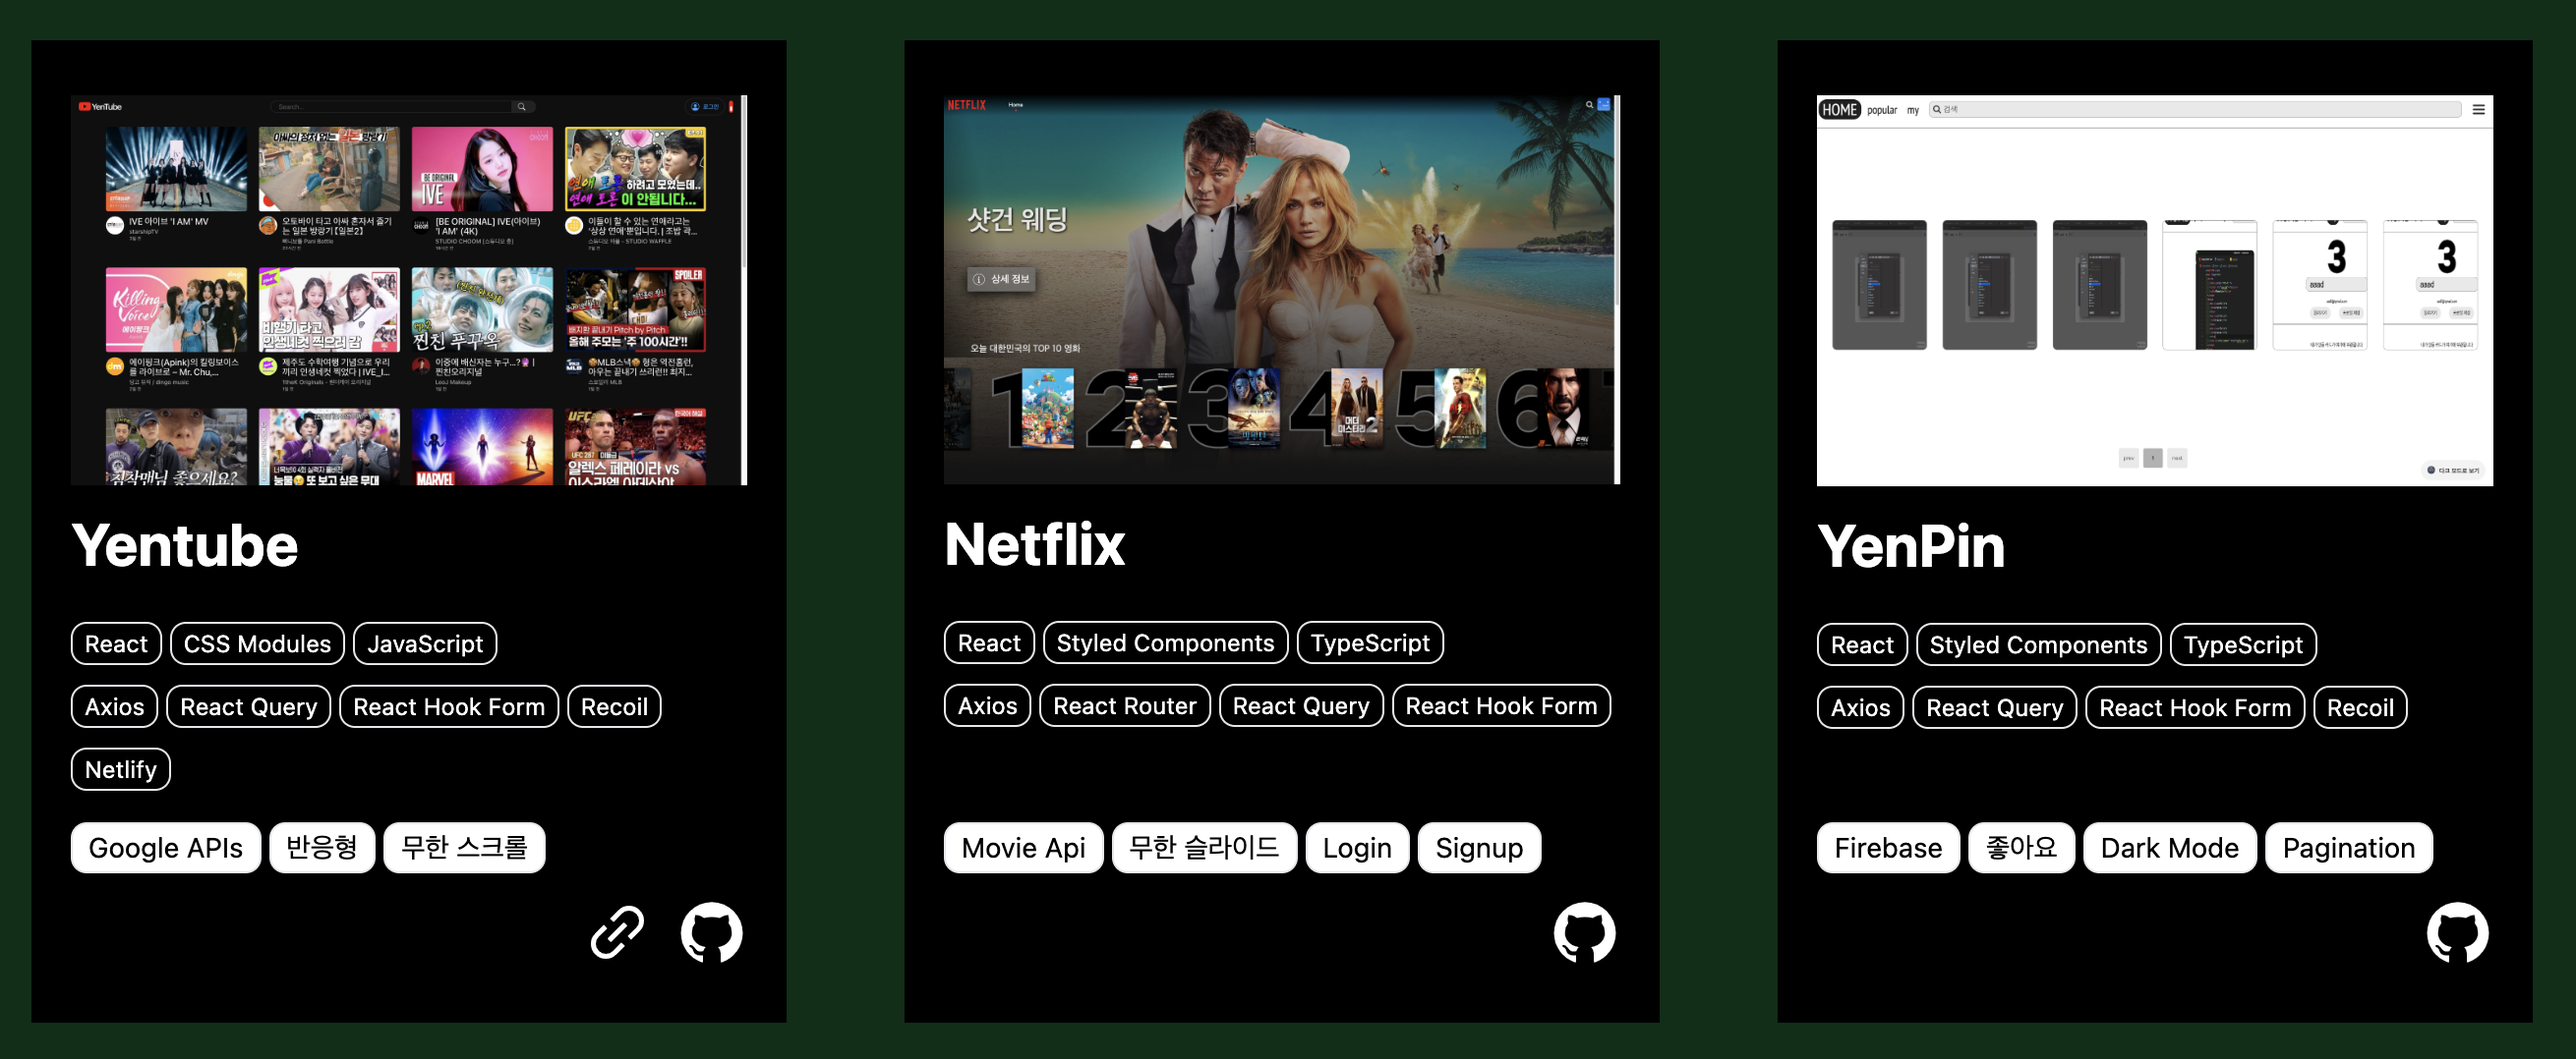
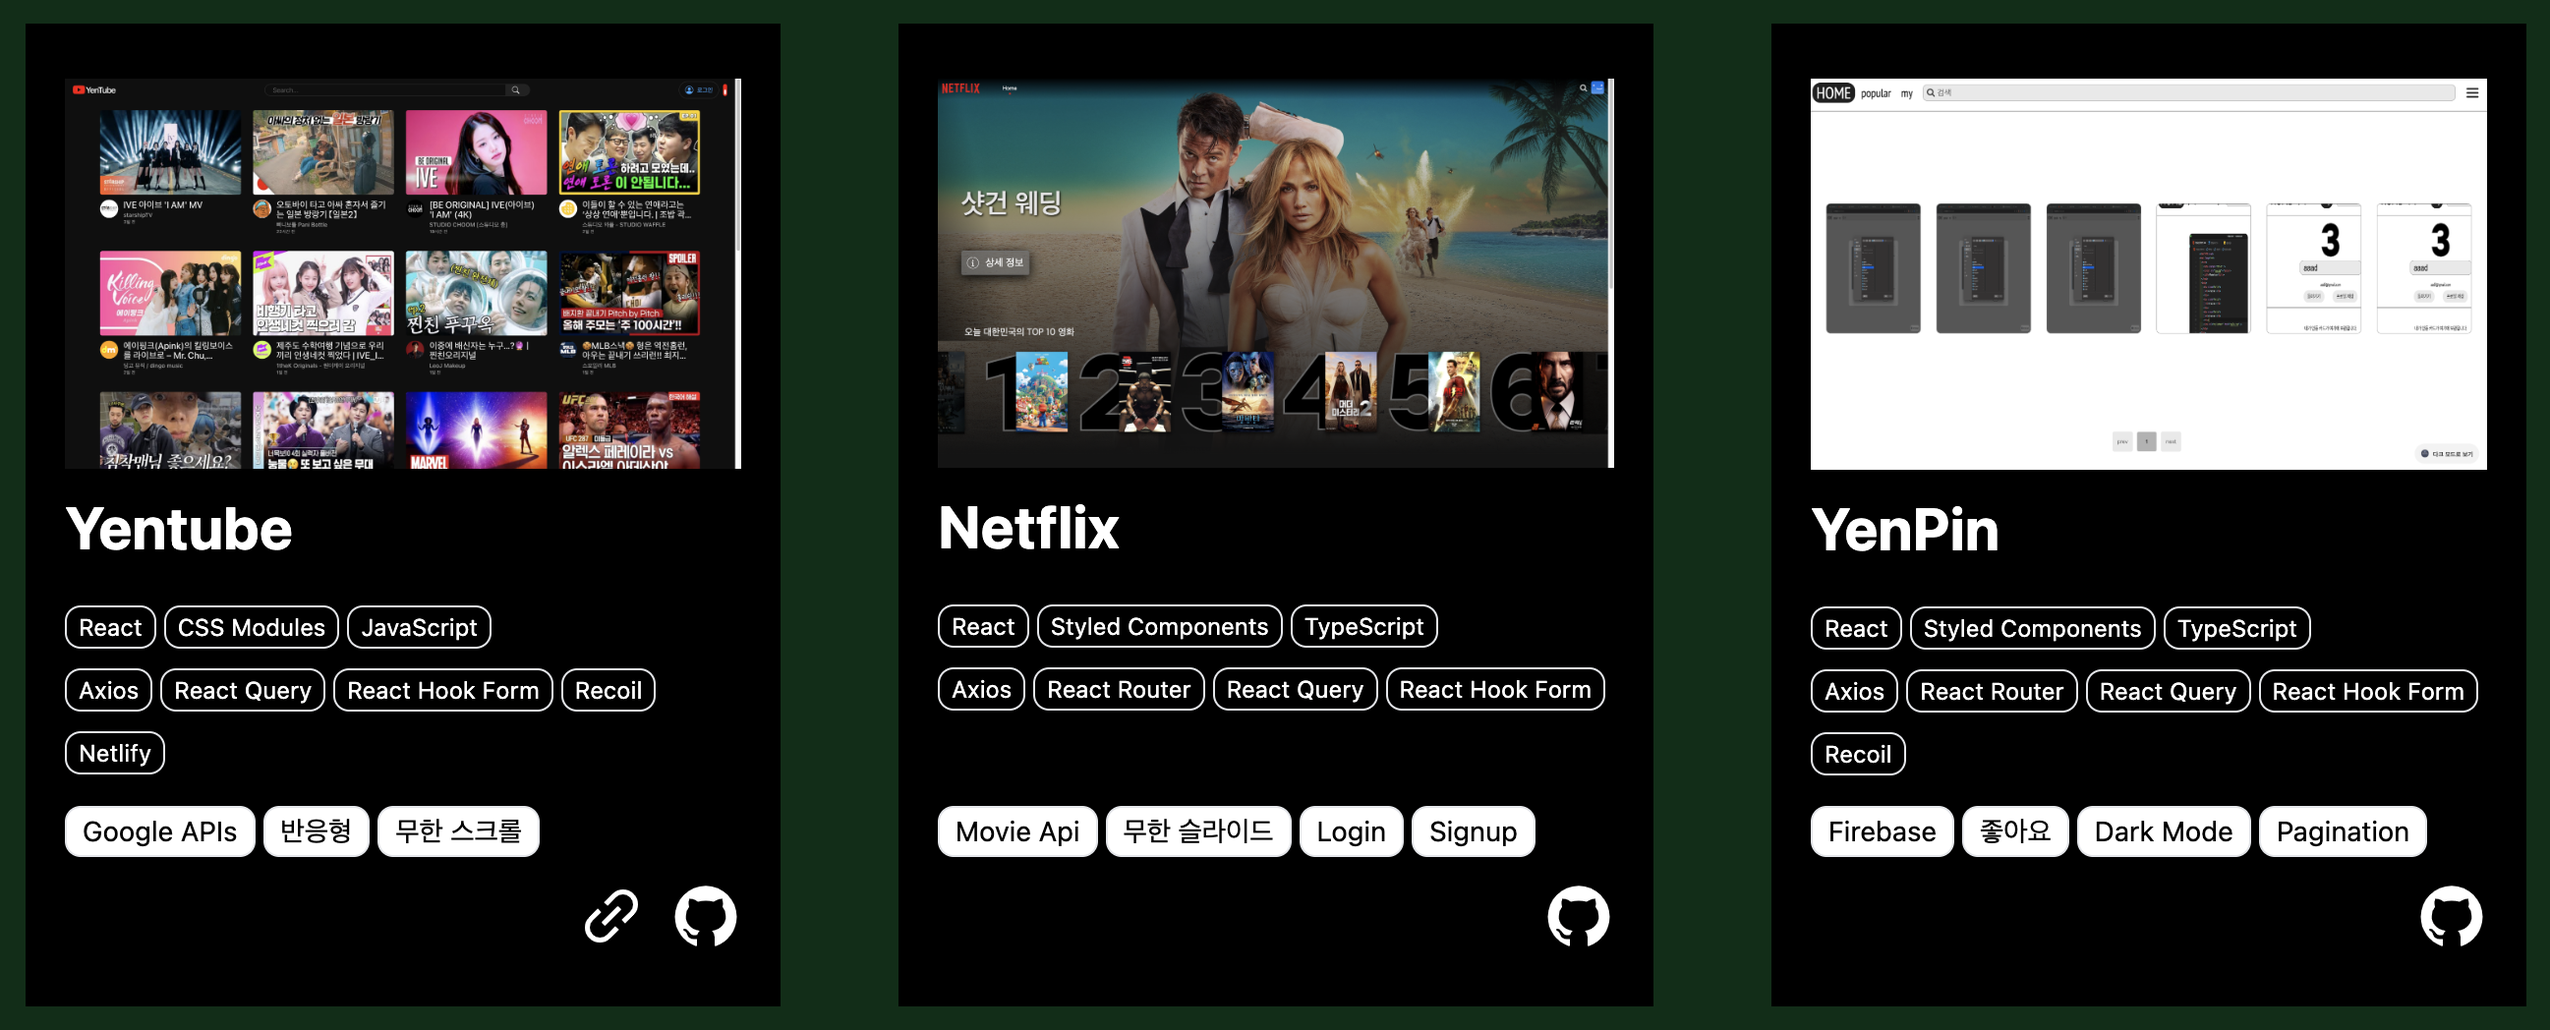
link 주소 변경

diff --git a/src/components/LinkContainer.tsx b/src/components/LinkContainer.tsx
@@ -15,20 +15,16 @@ const LinkContainer = ({ CD, projectName }: ILinkContainer) => {
   const onClick = (urlName: string) => {
     const yentube = projectName === "Yentube";
     const netflix = projectName === "Netflix";
-    const cards = projectName === "Cards";
+    const yenpin = projectName === "YenPin";
     const portfolio = projectName === "Portfolio";
 
     const url: any =
       (yentube &&
         (urlName === "git"
-          ? "https://github.com/YennieJ/clone_youtube"
+          ? "https://github.com/YennieJ/Yentube"
           : "https://yentube.store/")) ||
-      (netflix &&
-        urlName === "git" &&
-        "https://github.com/YennieJ/clone_netflix") ||
-      (cards &&
-        urlName === "git" &&
-        "https://github.com/YennieJ/homepage-typescript") ||
+      (netflix && urlName === "git" && "https://github.com/YennieJ/Yenflix") ||
+      (yenpin && urlName === "git" && "https://github.com/YennieJ/YenPin") ||
       (portfolio &&
         urlName === "git" &&
         "https://github.com/YennieJ/portfolio");

diff --git a/src/components/Used.tsx b/src/components/Used.tsx
@@ -26,7 +26,13 @@ const Used = ({ projectName }: IUsed) => {
   const extend = {
     Yentube: ["Axios", "React Query", "React Hook Form", "Recoil", "Netlify"],
     Netflix: ["Axios", "React Router", "React Query", "React Hook Form"],
-    YenPin: ["Axios", "React Query", "React Hook Form", "Recoil"],
+    YenPin: [
+      "Axios",
+      "React Router",
+      "React Query",
+      "React Hook Form",
+      "Recoil",
+    ],
   };
 
   //props 이름과 프로젝트 이름이 같은 배열을 찾아 사용한 툴을 맵핑하여 보여준다.

diff --git a/src/pages/Projects/Projects.tsx b/src/pages/Projects/Projects.tsx
@@ -32,7 +32,7 @@ const Projects = () => {
           <Used projectName="YenPin" />
           <Point projectName="YenPin" />
         </div>
-        <LinkContainer projectName="Cards" />
+        <LinkContainer projectName="YenPin" />
       </ProjectContainer>
     </div>
   );

diff --git a/tmep.md b/tmep.md
@@ -1,0 +1,12 @@
+<h1 align="center"> Yennie <a href="https://yentube.store/s" target="_blank" rel="noreferrer"> 🙋🏻♀Profile </a> <h1>
+
+<p align="center"> <img src="https://raw.githubusercontent.com/devicons/devicon/master/icons/react/react-original-wordmark.svg" alt="react" width="35" height="35"/><img src="https://raw.githubusercontent.com/devicons/devicon/master/icons/css3/css3-original-wordmark.svg" alt="css3" width="35" height="35"/>   <img src="https://raw.githubusercontent.com/devicons/devicon/master/icons/javascript/javascript-original.svg" alt="javascript" width="35" height="35"/>    <img src="https://raw.githubusercontent.com/devicons/devicon/master/icons/typescript/typescript-original.svg" alt="typescript" width="35" height="35"/> </a> </p>
+
+## Projects
+
+<p align="center"> <a href="https://github.com/YennieJ/clone_youtube" > <img width="330" alt="Yentube" src="https://user-images.githubusercontent.com/108519185/232845009-174ee1d0-44f6-4530-9f66-b2aae7a3e413.png">
+ </a>
+ <a href="https://github.com/YennieJ/homepage-typescript"" > <img width="330" alt="Yenflix" src="https://user-images.githubusercontent.com/108519185/232844996-6557f9cc-e51f-4115-b2bd-0336c9fc3074.png"> </a> 
+ <a href="https://reactjs.org/" > 
+<img width="330" alt="Yenpin" src="https://user-images.githubusercontent.com/108519185/232872800-0a264195-a057-4515-816b-5abb9ce1a97c.png">
+ </a>  </p>
